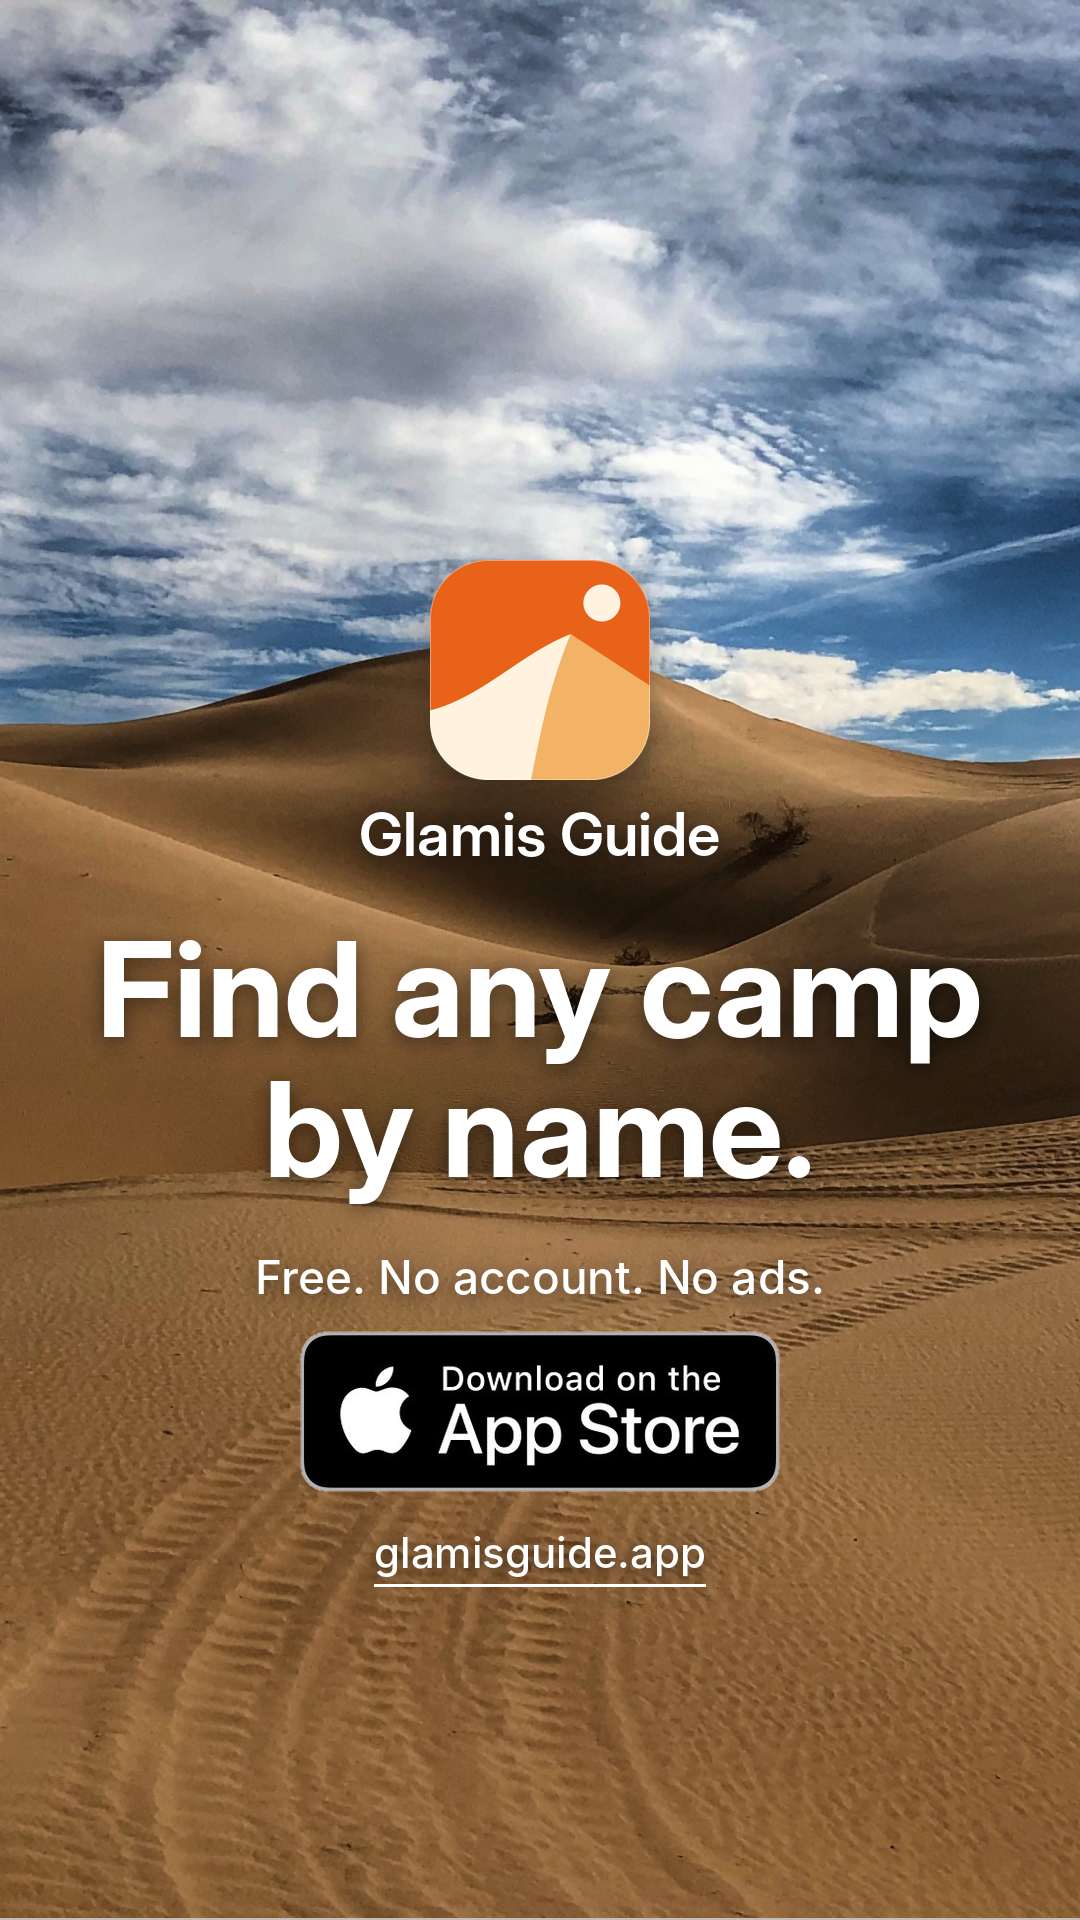
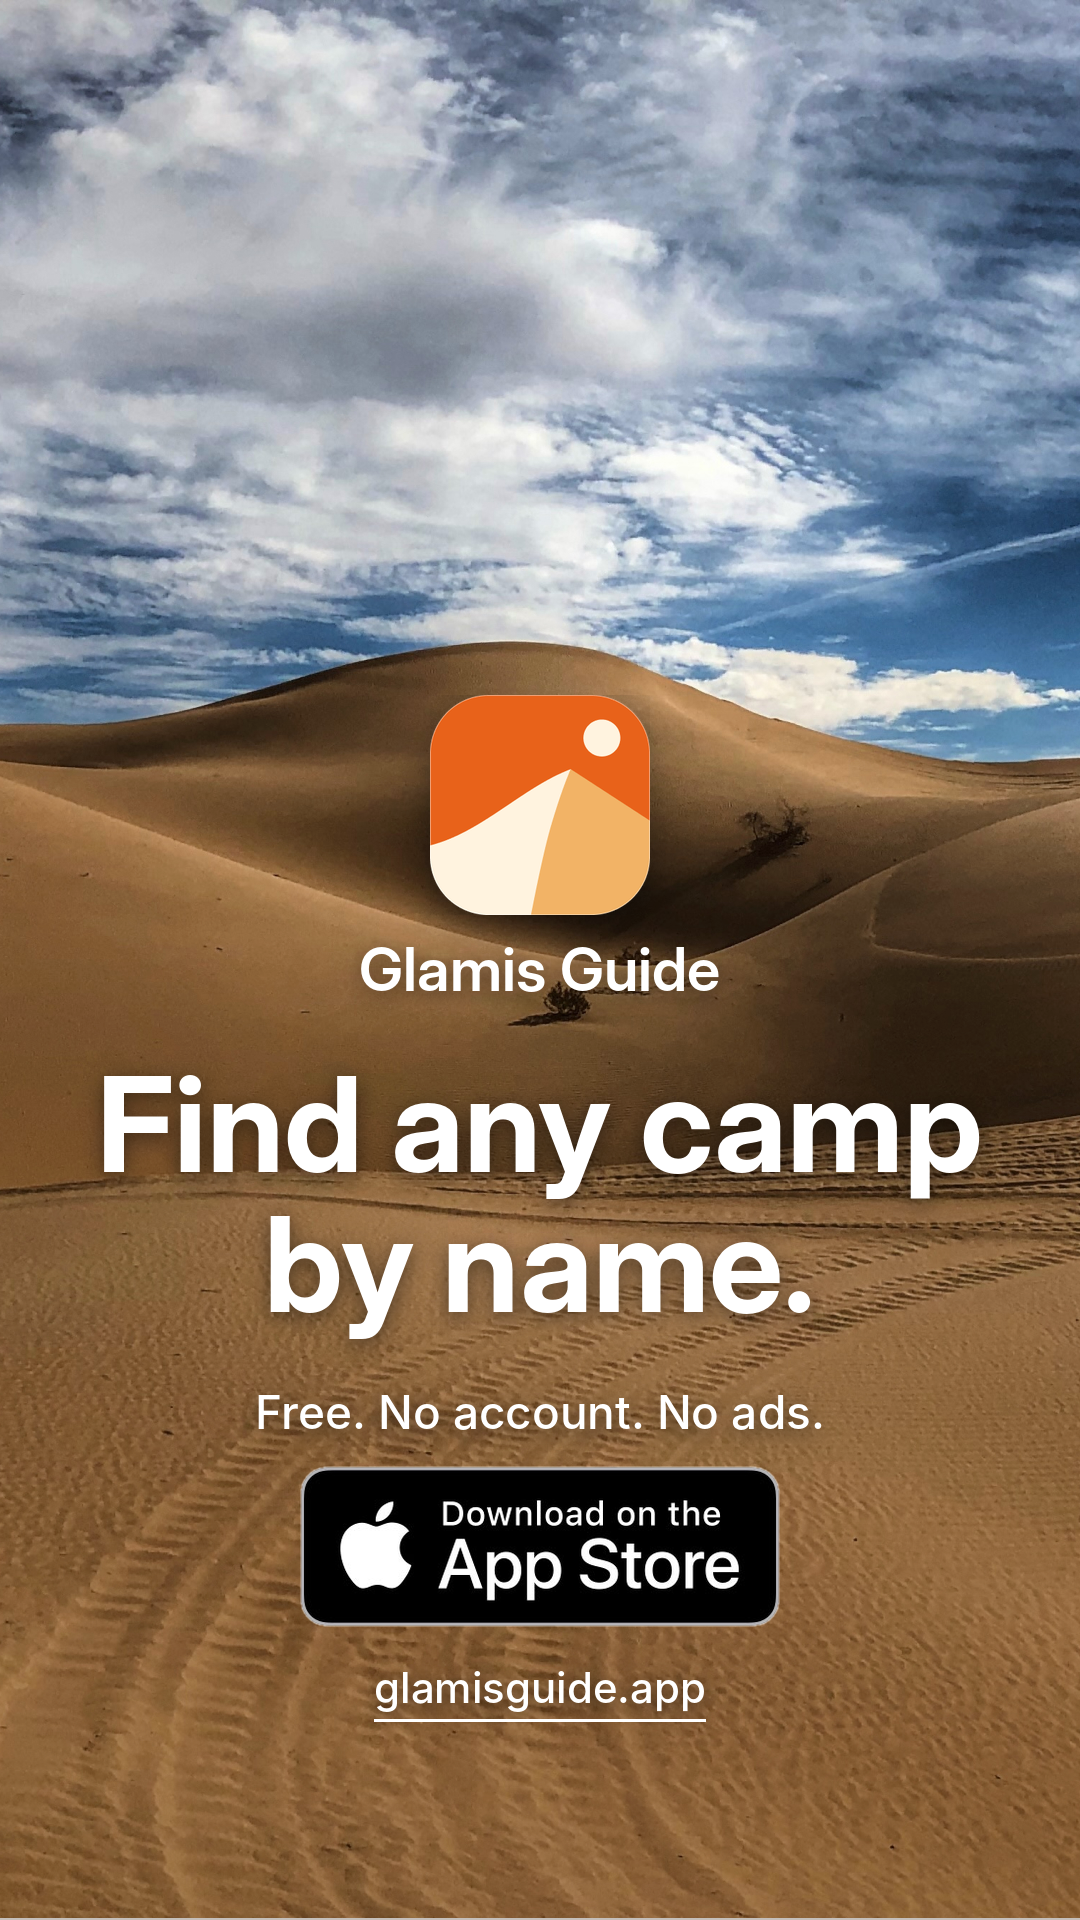
Story: pin content stack to the bottom with 200 px padding
Claude-Session: https://claude.ai/code/session_014sTvZnyiYuM1NfRchat4dB

Changed region(s): [[0.0917, 0.2812, 0.9167, 0.9062]]

diff --git a/tools/render.py b/tools/render.py
@@ -140,6 +140,8 @@ def render_story(copy, out):
         sd.line([(0, y), (STORY[0], y)], fill=(40, 20, 0, a))
     c.alpha_composite(shade)
 
+    base = c
+    c = Image.new("RGBA", STORY, (0, 0, 0, 0))  # stack is drawn here, then pinned to the bottom
     d = ImageDraw.Draw(c)
 
     def ink(fnt, text="Hg"):
@@ -148,7 +150,7 @@ def render_story(copy, out):
         return b[1], b[3] - b[1]
 
     # Vertical stack, top to bottom. Gaps are the visible space between elements.
-    y = 560                      # icon top (below the 250 px safe zone)
+    y = 0                        # stack starts at 0; it is shifted down at the end
     ICON = 220
     GAP_ICON_TITLE = 32          # icon and app name read as one unit
     GAP_TITLE_HEAD = 84
@@ -198,8 +200,11 @@ def render_story(copy, out):
     w = d.textlength(url, font=uf)
     uy = y + h + 8
     d.line([(540 - w / 2, uy), (540 + w / 2, uy)], fill=WHITE, width=3)
-    if uy > STORY[1] - 250:
-        print(f"warning: story content ends at {uy}px, inside the bottom safe zone")
+    # Pin the stack: its last line sits BOTTOM_PAD above the bottom edge.
+    BOTTOM_PAD = 200             # bottom padding; Instagram reply bar covers roughly the last 150-200 px
+    shift = STORY[1] - BOTTOM_PAD - uy
+    base.alpha_composite(c, (0, shift))
+    c = base
 
     c.convert("RGB").save(out, quality=95)
 
